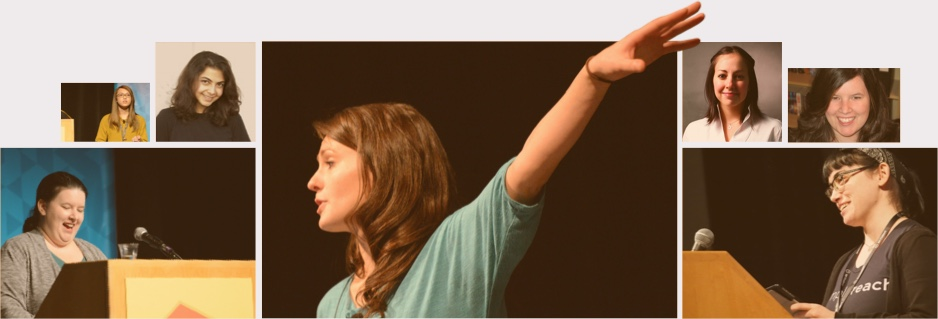
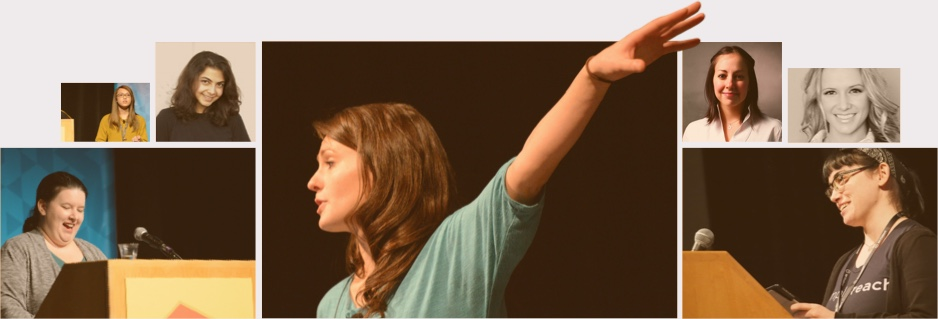
New image assets, bug fixes, contact CTA

Changed region(s): [[0.8348, 0.1975, 0.9584, 0.4514]]

diff --git a/source/css/app.css b/source/css/app.css
@@ -4502,11 +4502,12 @@ a {
 }
 /* line 297, ../sass/the-women.scss */
 .the-women .women-list ul li.woman .expand div div a.video-thumb figure div {
+  background: #120C07;
   width: 100%;
   position: relative;
   display: inline-block;
 }
-/* line 301, ../sass/the-women.scss */
+/* line 302, ../sass/the-women.scss */
 .the-women .women-list ul li.woman .expand div div a.video-thumb figure div:after {
   content: '';
   background-image: url("../images/icon-play.png");
@@ -4520,90 +4521,96 @@ a {
   margin-top: -1.875em;
 }
 @media all and (-webkit-min-device-pixel-ratio: 1.5), all and (-o-min-device-pixel-ratio: 3 / 2), all and (min--moz-device-pixel-ratio: 1.5), all and (min-device-pixel-ratio: 1.5) {
-  /* line 301, ../sass/the-women.scss */
+  /* line 302, ../sass/the-women.scss */
   .the-women .women-list ul li.woman .expand div div a.video-thumb figure div:after {
     background-image: url("../images/icon-play@2x.png");
     background-size: 100% auto;
   }
 }
 /* line 314, ../sass/the-women.scss */
+.the-women .women-list ul li.woman .expand div div a.video-thumb figure div:hover {
+  -webkit-backface-visibility: hidden;
+}
+/* line 316, ../sass/the-women.scss */
 .the-women .women-list ul li.woman .expand div div a.video-thumb figure div:hover img {
-  opacity: 1;
+  -webkit-backface-visibility: hidden;
+  opacity: .9;
 }
-/* line 318, ../sass/the-women.scss */
+/* line 321, ../sass/the-women.scss */
 .the-women .women-list ul li.woman .expand div div a.video-thumb figure div img {
-  opacity: .75;
+  -webkit-backface-visibility: hidden;
+  opacity: .65;
 }
-/* line 322, ../sass/the-women.scss */
+/* line 326, ../sass/the-women.scss */
 .the-women .women-list ul li.woman .expand div div a.video-thumb figure figcaption {
   margin-top: .625em;
 }
-/* line 327, ../sass/the-women.scss */
+/* line 331, ../sass/the-women.scss */
 .the-women .women-list ul li.woman .expand div div ul.other-links {
   margin: 0 0 1.5em 0;
   padding: 0;
   border: none;
 }
-/* line 331, ../sass/the-women.scss */
+/* line 335, ../sass/the-women.scss */
 .the-women .women-list ul li.woman .expand div div ul.other-links li {
   display: inline-block;
   margin-right: 1em;
   padding: 0;
 }
-/* line 335, ../sass/the-women.scss */
+/* line 339, ../sass/the-women.scss */
 .the-women .women-list ul li.woman .expand div div ul.other-links li a {
   color: #817B74;
   font-size: 0.8125em;
 }
-/* line 338, ../sass/the-women.scss */
+/* line 342, ../sass/the-women.scss */
 .the-women .women-list ul li.woman .expand div div ul.other-links li a:hover {
   color: #00ADC4;
 }
-/* line 341, ../sass/the-women.scss */
+/* line 345, ../sass/the-women.scss */
 .the-women .women-list ul li.woman .expand div div ul.other-links li a:before {
   content: '';
   display: inline-block;
-  width: 1em;
-  height: 1em;
-  top: .1em;
+  width: 1.545454545em;
+  height: 1.545454545em;
+  top: .3em;
   margin-right: .5em;
   position: relative;
   background-repeat: no-repeat;
 }
-/* line 352, ../sass/the-women.scss */
+/* line 356, ../sass/the-women.scss */
 .the-women .women-list ul li.woman .expand div div ul.other-links li a.twitter:before {
   background-image: url("../images/icon-twitter.png");
 }
 @media all and (-webkit-min-device-pixel-ratio: 1.5), all and (-o-min-device-pixel-ratio: 3 / 2), all and (min--moz-device-pixel-ratio: 1.5), all and (min-device-pixel-ratio: 1.5) {
-  /* line 352, ../sass/the-women.scss */
+  /* line 356, ../sass/the-women.scss */
   .the-women .women-list ul li.woman .expand div div ul.other-links li a.twitter:before {
     background-image: url("../images/icon-twitter@2x.png");
     background-size: 100% auto;
   }
 }
-/* line 357, ../sass/the-women.scss */
+/* line 361, ../sass/the-women.scss */
 .the-women .women-list ul li.woman .expand div div ul.other-links li a.github:before {
   background-image: url("../images/icon-github.png");
 }
 @media all and (-webkit-min-device-pixel-ratio: 1.5), all and (-o-min-device-pixel-ratio: 3 / 2), all and (min--moz-device-pixel-ratio: 1.5), all and (min-device-pixel-ratio: 1.5) {
-  /* line 357, ../sass/the-women.scss */
+  /* line 361, ../sass/the-women.scss */
   .the-women .women-list ul li.woman .expand div div ul.other-links li a.github:before {
     background-image: url("../images/icon-github@2x.png");
     background-size: 100% auto;
   }
 }
-/* line 362, ../sass/the-women.scss */
+/* line 366, ../sass/the-women.scss */
 .the-women .women-list ul li.woman .expand div div ul.other-links li a.external-link:before {
   background-image: url("../images/icon-link.png");
 }
 @media all and (-webkit-min-device-pixel-ratio: 1.5), all and (-o-min-device-pixel-ratio: 3 / 2), all and (min--moz-device-pixel-ratio: 1.5), all and (min-device-pixel-ratio: 1.5) {
-  /* line 362, ../sass/the-women.scss */
+  /* line 366, ../sass/the-women.scss */
   .the-women .women-list ul li.woman .expand div div ul.other-links li a.external-link:before {
     background-image: url("../images/icon-link@2x.png");
     background-size: 100% auto;
   }
 }
-/* line 375, ../sass/the-women.scss */
+/* line 379, ../sass/the-women.scss */
 .the-women .women-list ul li.woman.inactive a * {
   -webkit-transition: opacity 250ms;
   -khtml-transition: opacity 250ms;
@@ -4614,12 +4621,12 @@ a {
   opacity: .8;
 }
 @media screen and (min-width: 31.5em) {
-  /* line 375, ../sass/the-women.scss */
+  /* line 379, ../sass/the-women.scss */
   .the-women .women-list ul li.woman.inactive a * {
     opacity: .5;
   }
 }
-/* line 382, ../sass/the-women.scss */
+/* line 386, ../sass/the-women.scss */
 .the-women .women-list ul li.woman.inactive a div.woman-thumb {
   -webkit-transition: opacity 250ms;
   -khtml-transition: opacity 250ms;
@@ -4629,7 +4636,7 @@ a {
   transition: opacity 250ms;
   -webkit-backface-visibility: hidden;
 }
-/* line 385, ../sass/the-women.scss */
+/* line 389, ../sass/the-women.scss */
 .the-women .women-list ul li.woman.inactive a div.woman-thumb img {
   -webkit-transition: opacity 250ms;
   -khtml-transition: opacity 250ms;
@@ -4639,7 +4646,7 @@ a {
   transition: opacity 250ms;
   -webkit-backface-visibility: hidden;
 }
-/* line 390, ../sass/the-women.scss */
+/* line 394, ../sass/the-women.scss */
 .the-women .women-list ul li.woman.inactive a div.basic-info {
   opacity: .6;
   -webkit-transition: opacity 250ms;
@@ -4651,24 +4658,24 @@ a {
   -webkit-backface-visibility: hidden;
 }
 @media screen and (min-width: 31.5em) {
-  /* line 390, ../sass/the-women.scss */
+  /* line 394, ../sass/the-women.scss */
   .the-women .women-list ul li.woman.inactive a div.basic-info {
     opacity: .3;
   }
 }
-/* line 401, ../sass/the-women.scss */
+/* line 405, ../sass/the-women.scss */
 .the-women .women-list ul li.woman.semi-active:hover * {
   opacity: 1;
 }
-/* line 403, ../sass/the-women.scss */
+/* line 407, ../sass/the-women.scss */
 .the-women .women-list ul li.woman.semi-active:hover * div.basic-info {
   opacity: 1;
 }
-/* line 408, ../sass/the-women.scss */
+/* line 412, ../sass/the-women.scss */
 .the-women .women-list ul li.woman.semi-active a * {
   opacity: .8;
 }
-/* line 412, ../sass/the-women.scss */
+/* line 416, ../sass/the-women.scss */
 .the-women .women-list ul li.woman.semi-active a div.woman-thumb {
   -webkit-transition: opacity 250ms;
   -khtml-transition: opacity 250ms;
@@ -4678,7 +4685,7 @@ a {
   transition: opacity 250ms;
   -webkit-backface-visibility: hidden;
 }
-/* line 415, ../sass/the-women.scss */
+/* line 419, ../sass/the-women.scss */
 .the-women .women-list ul li.woman.semi-active a div.woman-thumb img {
   -webkit-transition: opacity 250ms;
   -khtml-transition: opacity 250ms;
@@ -4688,7 +4695,7 @@ a {
   transition: opacity 250ms;
   -webkit-backface-visibility: hidden;
 }
-/* line 420, ../sass/the-women.scss */
+/* line 424, ../sass/the-women.scss */
 .the-women .women-list ul li.woman.semi-active a div.basic-info {
   opacity: .5;
   -webkit-transition: opacity 250ms;
@@ -4699,7 +4706,7 @@ a {
   transition: opacity 250ms;
   -webkit-backface-visibility: hidden;
 }
-/* line 428, ../sass/the-women.scss */
+/* line 432, ../sass/the-women.scss */
 .the-women .women-list ul li.woman.active .woman-thumb {
   -moz-transform: scale(1.15);
   -o-transform: scale(1.15);
@@ -4722,7 +4729,7 @@ a {
   z-index: 100;
 }
 @media screen and (min-width: 64.0625em) {
-  /* line 428, ../sass/the-women.scss */
+  /* line 432, ../sass/the-women.scss */
   .the-women .women-list ul li.woman.active .woman-thumb {
     -moz-transform: scale(1.25);
     -o-transform: scale(1.25);
@@ -4731,28 +4738,28 @@ a {
     transform: scale(1.25);
   }
 }
-/* line 437, ../sass/the-women.scss */
+/* line 441, ../sass/the-women.scss */
 .the-women .women-list ul li.woman.active .woman-thumb img {
   opacity: 1;
   width: 100%;
 }
-/* line 441, ../sass/the-women.scss */
+/* line 445, ../sass/the-women.scss */
 .the-women .women-list ul li.woman.active .woman-thumb:after {
   opacity: .08;
 }
 @media screen and (min-width: 23.75em) {
-  /* line 446, ../sass/the-women.scss */
+  /* line 450, ../sass/the-women.scss */
   .the-women .women-list ul li.woman.active:nth-last-child(-n+2) .expand {
     margin-bottom: 0;
   }
 }
 @media screen and (min-width: 40.0625em) {
-  /* line 453, ../sass/the-women.scss */
+  /* line 457, ../sass/the-women.scss */
   .the-women .women-list ul li.woman.active:nth-last-child(-n+3) .expand {
     margin-bottom: 0;
   }
 }
-/* line 459, ../sass/the-women.scss */
+/* line 463, ../sass/the-women.scss */
 .the-women .women-list ul li.woman.active .expand {
   margin-top: .5em;
   height: auto;
@@ -4761,7 +4768,7 @@ a {
   margin-bottom: 5.5em;
   overflow: visible;
 }
-/* line 466, ../sass/the-women.scss */
+/* line 470, ../sass/the-women.scss */
 .the-women .women-list ul li.woman.active .expand * {
   opacity: 1;
   -webkit-transition: opacity 250ms;
@@ -4772,40 +4779,40 @@ a {
   transition: opacity 250ms;
 }
 @media screen and (min-width: 40.0625em) {
-  /* line 459, ../sass/the-women.scss */
+  /* line 463, ../sass/the-women.scss */
   .the-women .women-list ul li.woman.active .expand {
     margin-top: 0;
   }
 }
 @media screen and (min-width: 52em) {
-  /* line 459, ../sass/the-women.scss */
+  /* line 463, ../sass/the-women.scss */
   .the-women .women-list ul li.woman.active .expand {
     margin-top: -1em;
   }
 }
 @media screen and (min-width: 64.0625em) {
-  /* line 459, ../sass/the-women.scss */
+  /* line 463, ../sass/the-women.scss */
   .the-women .women-list ul li.woman.active .expand {
     margin-top: -1em;
   }
 }
-/* line 479, ../sass/the-women.scss */
+/* line 483, ../sass/the-women.scss */
 .the-women .women-list ul li.woman.active .expand div {
   padding: 1.75em 2.5em 1.875em;
 }
 @media screen and (min-width: 40.0625em) {
-  /* line 479, ../sass/the-women.scss */
+  /* line 483, ../sass/the-women.scss */
   .the-women .women-list ul li.woman.active .expand div {
     padding: 2.5em 3.75em;
   }
 }
 @media screen and (min-width: 64.0625em) {
-  /* line 479, ../sass/the-women.scss */
+  /* line 483, ../sass/the-women.scss */
   .the-women .women-list ul li.woman.active .expand div {
     padding: 2.125em 3.25em 2em;
   }
 }
-/* line 487, ../sass/the-women.scss */
+/* line 491, ../sass/the-women.scss */
 .the-women .women-list ul li.woman.active .expand div div {
   padding: 0;
 }

diff --git a/source/sass/the-women.scss b/source/sass/the-women.scss
@@ -295,6 +295,7 @@
                     display: inline-block;
                     position: relative;
                     div {
+                      background: $black;
                       width: 100%;
                       position: relative;
                       display: inline-block;
@@ -311,12 +312,15 @@
                         margin-top: -1.875em; // Half the image height plus a little more to optically center it
                       }
                       &:hover {
+                        -webkit-backface-visibility: hidden;
                         img {
-                          opacity: 1;
+                          -webkit-backface-visibility: hidden;
+                          opacity: .9;
                         }
                       }
                       img {
-                        opacity: .75;
+                        -webkit-backface-visibility: hidden;
+                        opacity: .65;
                       }
                     }
                     figcaption {
@@ -341,9 +345,9 @@
                       &:before {
                         content: '';
                         display: inline-block;
-                        width: 1em;
-                        height: 1em;
-                        top: .1em;
+                        width: 1.545454545em;
+                        height: 1.545454545em;
+                        top: .3em;
                         margin-right: .5em;
                         position: relative;
                         background-repeat: no-repeat;
